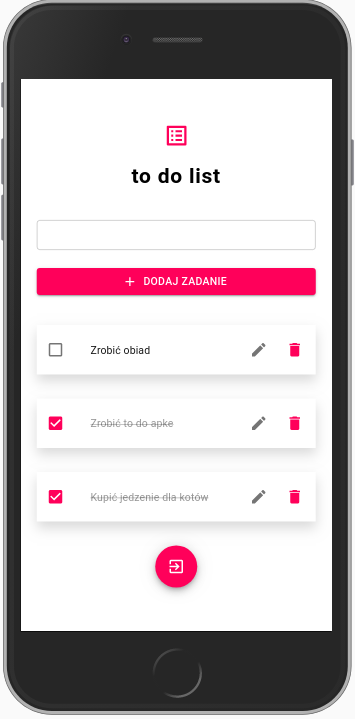
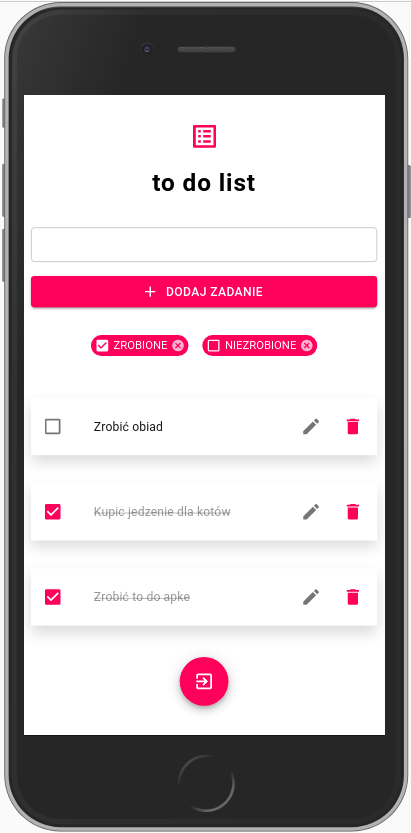
sort tasks by done/undone

diff --git a/src/components/ToDo.js b/src/components/ToDo.js
@@ -4,8 +4,8 @@ import ToDoItem from "./ToDoItem";
 import ToDoItemEdit from "./ToDoItemEdit";
 import { Tooltip, Fab, CircularProgress, Chip } from "@material-ui/core/";
 import ExitToAppIcon from "@material-ui/icons/ExitToApp";
-import CheckBoxIcon from '@material-ui/icons/CheckBox';
-import CheckBoxOutlineBlankIcon from '@material-ui/icons/CheckBoxOutlineBlank';
+import CheckBoxIcon from "@material-ui/icons/CheckBox";
+import CheckBoxOutlineBlankIcon from "@material-ui/icons/CheckBoxOutlineBlank";
 import { withStyles } from "@material-ui/core/styles";
 import firebase from "firebase";
 import { DATABASE_URL } from "../index";
@@ -24,12 +24,15 @@ const styles = (theme) => ({
   chips: {
     width: "100%",
     marginBottom: theme.spacing(5),
-    display: 'flex',
-    justifyContent: 'space-evenly'
+    display: "flex",
+    justifyContent: "center",
+  },
+  chip: {
+    margin: theme.spacing(1),
   },
   signOut: {
     margin: "1%",
-  }
+  },
 });
 class ToDo extends React.Component {
   state = {
@@ -75,26 +78,26 @@ class ToDo extends React.Component {
   handleShowDone = () => {
     this.setState({
       showDone: true,
-    })
-  }
+    });
+  };
 
   handleShowUndone = () => {
     this.setState({
       showUndone: true,
-    })
-  }
+    });
+  };
 
   handleDeleteShowDone = () => {
     this.setState({
       showDone: false,
-    })
-  }
+    });
+  };
 
   handleDeleteShowUndone = () => {
     this.setState({
       showUndone: false,
-    })
-  }
+    });
+  };
 
   handleItemSave = () => {
     this.fetchTasks();
@@ -115,39 +118,61 @@ class ToDo extends React.Component {
       <>
         <AddTask onFetchTasks={this.fetchTasks} />
         <div className={classes.chips}>
-        <Chip size="small" label="ZROBIONE" clickable color={this.state.showDone ? "secondary" : "default"} icon={<CheckBoxIcon />} onClick={this.handleShowDone} onDelete={this.handleDeleteShowDone} />
-        <Chip size="small" label="NIEZROBIONE" clickable color={this.state.showUndone ? "secondary" : "default"} icon={<CheckBoxOutlineBlankIcon />} onClick={this.handleShowUndone} onDelete={this.handleDeleteShowUndone}/> </div>
+          <Chip
+            size="small"
+            label="ZROBIONE"
+            clickable
+            className={classes.chip}
+            color={this.state.showDone ? "secondary" : "default"}
+            icon={<CheckBoxIcon />}
+            onClick={this.handleShowDone}
+            onDelete={this.handleDeleteShowDone}
+          />
+          {"   "}
+          <Chip
+            size="small"
+            label="NIEZROBIONE"
+            clickable
+            className={classes.chip}
+            color={this.state.showUndone ? "secondary" : "default"}
+            icon={<CheckBoxOutlineBlankIcon />}
+            onClick={this.handleShowUndone}
+            onDelete={this.handleDeleteShowUndone}
+          />
+        </div>
         {this.state.loading ? (
           <CircularProgress color="secondary" className={classes.loader} />
         ) : (
           this.state.todo
-          .filter((todoItem) => {
-            if (this.state.showDone && this.state.showUndone) {
-              return todoItem
-            } if (this.state.showDone) {
-              return todoItem.done === true
-            } else if (this.state.showUndone) {
-              return todoItem.done === false
-            }
-          }) 
-          .map((todoItem) =>
-            todoItem.id === this.state.editId ? (
-              <ToDoItemEdit
-                key={todoItem.id}
-                onClose={this.resetEditId}
-                onSave={this.handleItemSave}
-                onFetchTasks={this.fetchTasks}
-                {...todoItem}
-              />
-            ) : (
-              <ToDoItem
-                key={todoItem.id}
-                onFetchTasks={this.fetchTasks}
-                onEdit={this.handleItemEdit}
-                {...todoItem}
-              />
+            .filter((todoItem) => {
+              if (this.state.showDone && this.state.showUndone) {
+                return true;
+              } else if (this.state.showDone) {
+                return todoItem.done === true;
+              } else if (this.state.showUndone) {
+                return todoItem.done === false;
+              } else {
+                return false;
+              }
+            })
+            .map((todoItem) =>
+              todoItem.id === this.state.editId ? (
+                <ToDoItemEdit
+                  key={todoItem.id}
+                  onClose={this.resetEditId}
+                  onSave={this.handleItemSave}
+                  onFetchTasks={this.fetchTasks}
+                  {...todoItem}
+                />
+              ) : (
+                <ToDoItem
+                  key={todoItem.id}
+                  onFetchTasks={this.fetchTasks}
+                  onEdit={this.handleItemEdit}
+                  {...todoItem}
+                />
+              )
             )
-          )
         )}
         <Tooltip title="Wyloguj się">
           <Fab

diff --git a/src/components/AddTask.js b/src/components/AddTask.js
@@ -1,5 +1,5 @@
 import React from "react";
-import { Button, TextField } from "@material-ui/core/";
+import { Button, TextField, Tooltip } from "@material-ui/core/";
 import AddIcon from "@material-ui/icons/Add";
 import { withStyles } from "@material-ui/core/styles";
 import firebase from "firebase";
@@ -9,12 +9,12 @@ const styles = (theme) => ({
   form: {
     width: "100%",
     maxWidth: 600,
-    marginTop: theme.spacing(3),
-    marginBottom: theme.spacing(2),
+    marginTop: theme.spacing(2),
+    marginBottom: theme.spacing(1),
   },
   input: {
     width: "100%",
-    marginBottom: theme.spacing(1),
+    marginBottom: theme.spacing(2),
   },
 });
 
@@ -43,12 +43,12 @@ class AddTask extends React.Component {
       });
     });
   };
-  
- handleOnKeypress = (event) => {
-  if (event.keyCode === 13) {
-    this.handleOnSubmit();
-  }
-};
+
+  handleOnKeypress = (event) => {
+    if (event.keyCode === 13) {
+      this.handleOnSubmit();
+    }
+  };
 
   render() {
     const { classes } = this.props;
@@ -60,15 +60,17 @@ class AddTask extends React.Component {
           autoComplete="off"
           onSubmit={this.handleOnSubmit}
         >
-          <TextField
-            className={classes.input}
-            variant="outlined"
-            color="secondary"
-            size="small"
-            onChange={this.handleOnChange}
-            value={this.state.task}
-            onKeyPress={this.handleOnKeypress}
-          />
+          <Tooltip title="Wpisz zadanie" placement="top-start">
+            <TextField
+              className={classes.input}
+              variant="outlined"
+              color="secondary"
+              size="small"
+              onChange={this.handleOnChange}
+              value={this.state.task}
+              onKeyPress={this.handleOnKeypress}
+            />
+          </Tooltip>
 
           <Button
             className={classes.input}

diff --git a/src/index.js b/src/index.js
@@ -6,13 +6,13 @@ import * as serviceWorker from "./serviceWorker";
 import firebase from "firebase";
 
 const firebaseConfig = {
-  apiKey: "AIzaSyB1BMryuc2oO_HKgFwhwUCSS4nAHRINpV0",
-  authDomain: "test-f0a98.firebaseapp.com",
-  databaseURL: "https://test-f0a98.firebaseio.com",
-  projectId: "test-f0a98",
-  storageBucket: "test-f0a98.appspot.com",
-  messagingSenderId: "378065021114",
-  appId: "1:378065021114:web:d53eb6c0e37dc4b271ba83"
+  apiKey: "AIzaSyBqX0NLqBomHbVxppsvUju6myikZ7zJpqU",
+  authDomain: "todoapp-36408.firebaseapp.com",
+  databaseURL: "https://todoapp-36408.firebaseio.com",
+  projectId: "todoapp-36408",
+  storageBucket: "todoapp-36408.appspot.com",
+  messagingSenderId: "20656447326",
+  appId: "1:20656447326:web:a8975420dab8f64293b9cf",
 };
 
 export const DATABASE_URL = firebaseConfig.databaseURL;

diff --git a/src/components/ToDoItem.js b/src/components/ToDoItem.js
@@ -48,7 +48,6 @@ class ToDoItem extends React.Component {
     });
   };
   handleOnDoneTask = (event) => {
-
     this.setState(
       {
         done: !this.state.done,
@@ -57,11 +56,10 @@ class ToDoItem extends React.Component {
         const user = firebase.auth().currentUser;
         fetch(`${DATABASE_URL}/users/${user.uid}/todo/${this.props.id}.json`, {
           method: "PATCH",
-          body: JSON.stringify({done: this.state.done}),
+          body: JSON.stringify({ done: this.state.done }),
         }).then(() => {
           this.props.onFetchTasks();
         });
-        console.log(this.state.done)
       }
     );
   };

diff --git a/src/App.js b/src/App.js
@@ -9,7 +9,7 @@ import firebase from "firebase";
 const styles = (theme) => ({
   toDoApp: {
     padding: "2%",
-    width: "100%", 
+    width: "100%",
     minHeight: "100vh",
     display: "flex",
     justifyContent: "center",

diff --git a/README.md b/README.md
@@ -23,6 +23,7 @@ User can:
 * mark task as done or undone
 * edit task
 * delete task
+* sort tasks by done/undone
 
 ## Technologies
 Project is created with:
